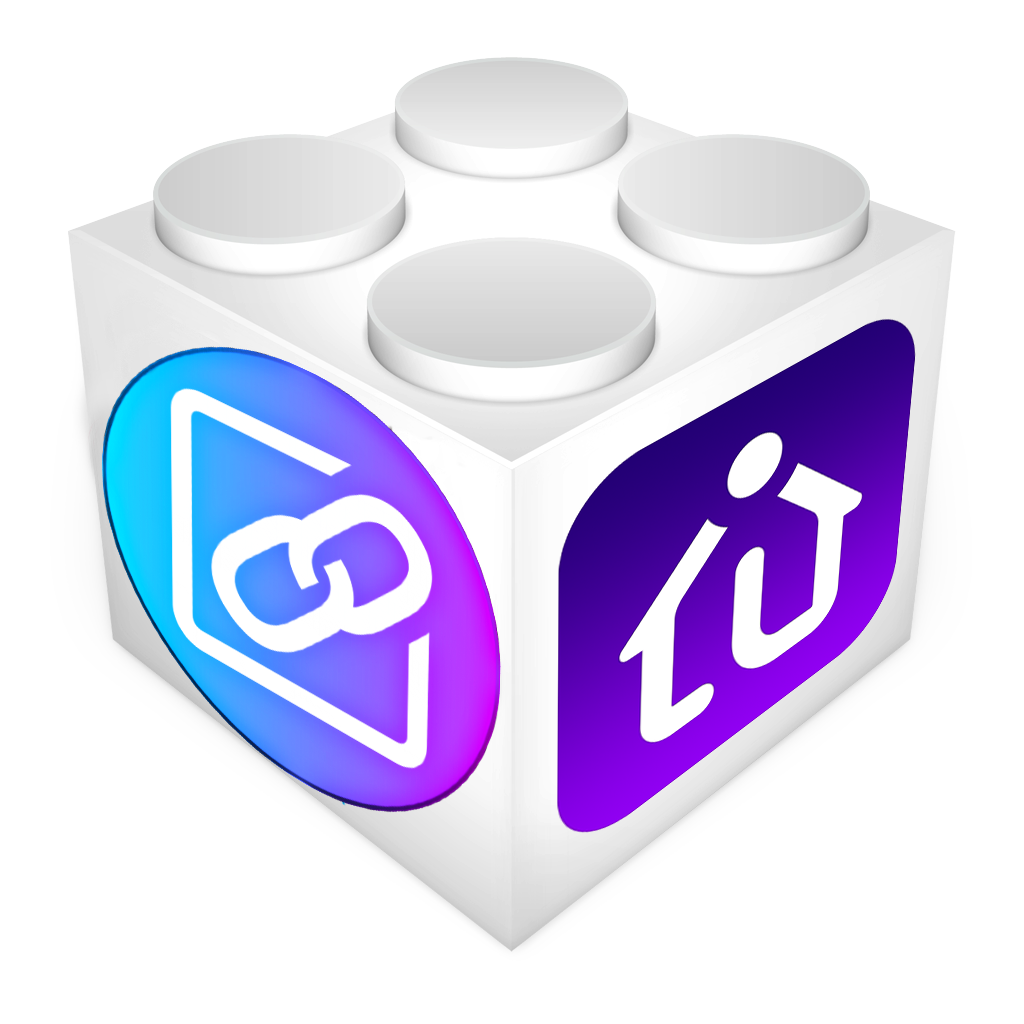
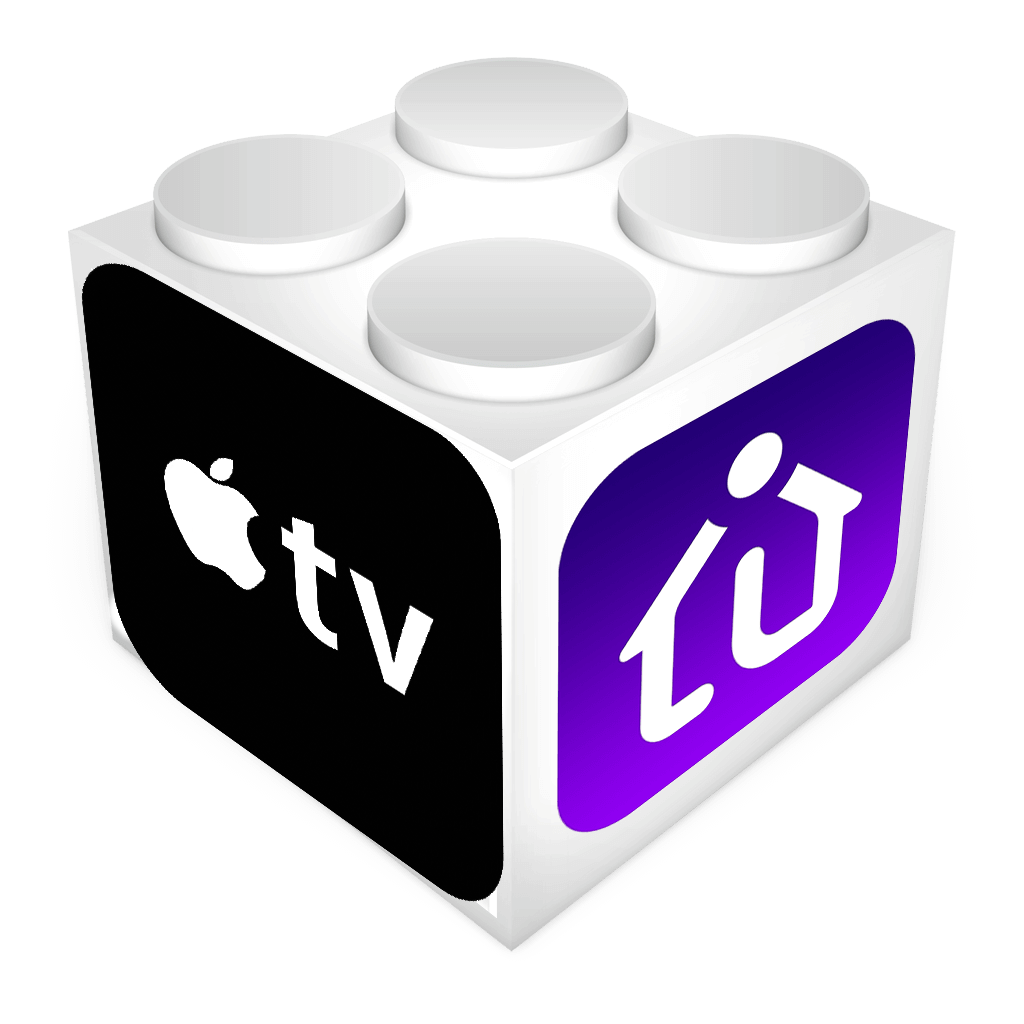
Doc and images

Changed region(s): [[0.0625, 0.25, 0.5, 0.9062]]

diff --git a/README.md b/README.md
@@ -1,0 +1,2 @@
+***AppleTV Python3 Plugin***
+
